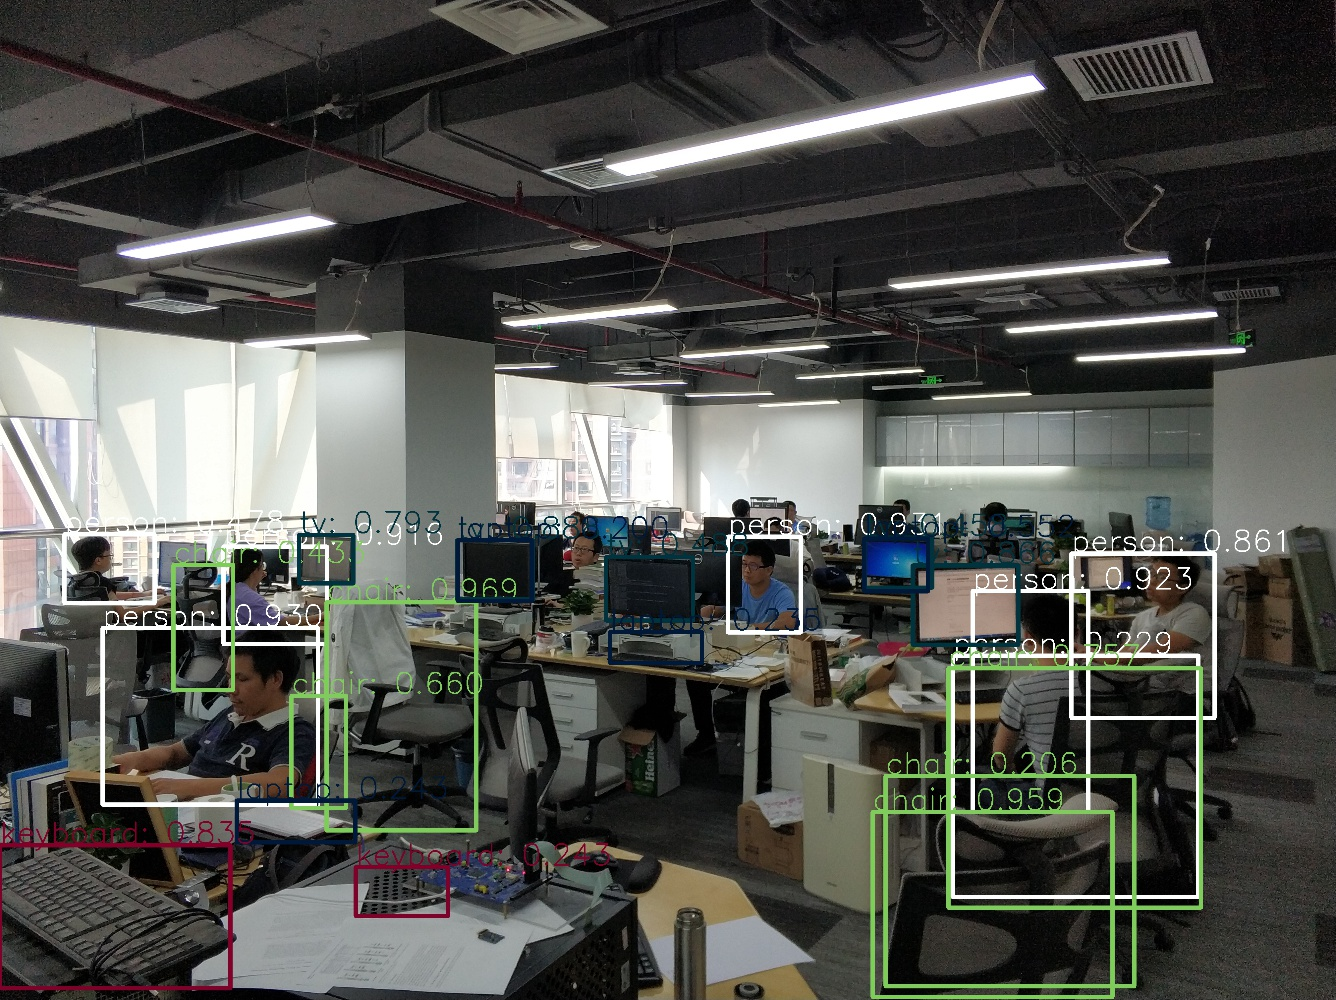
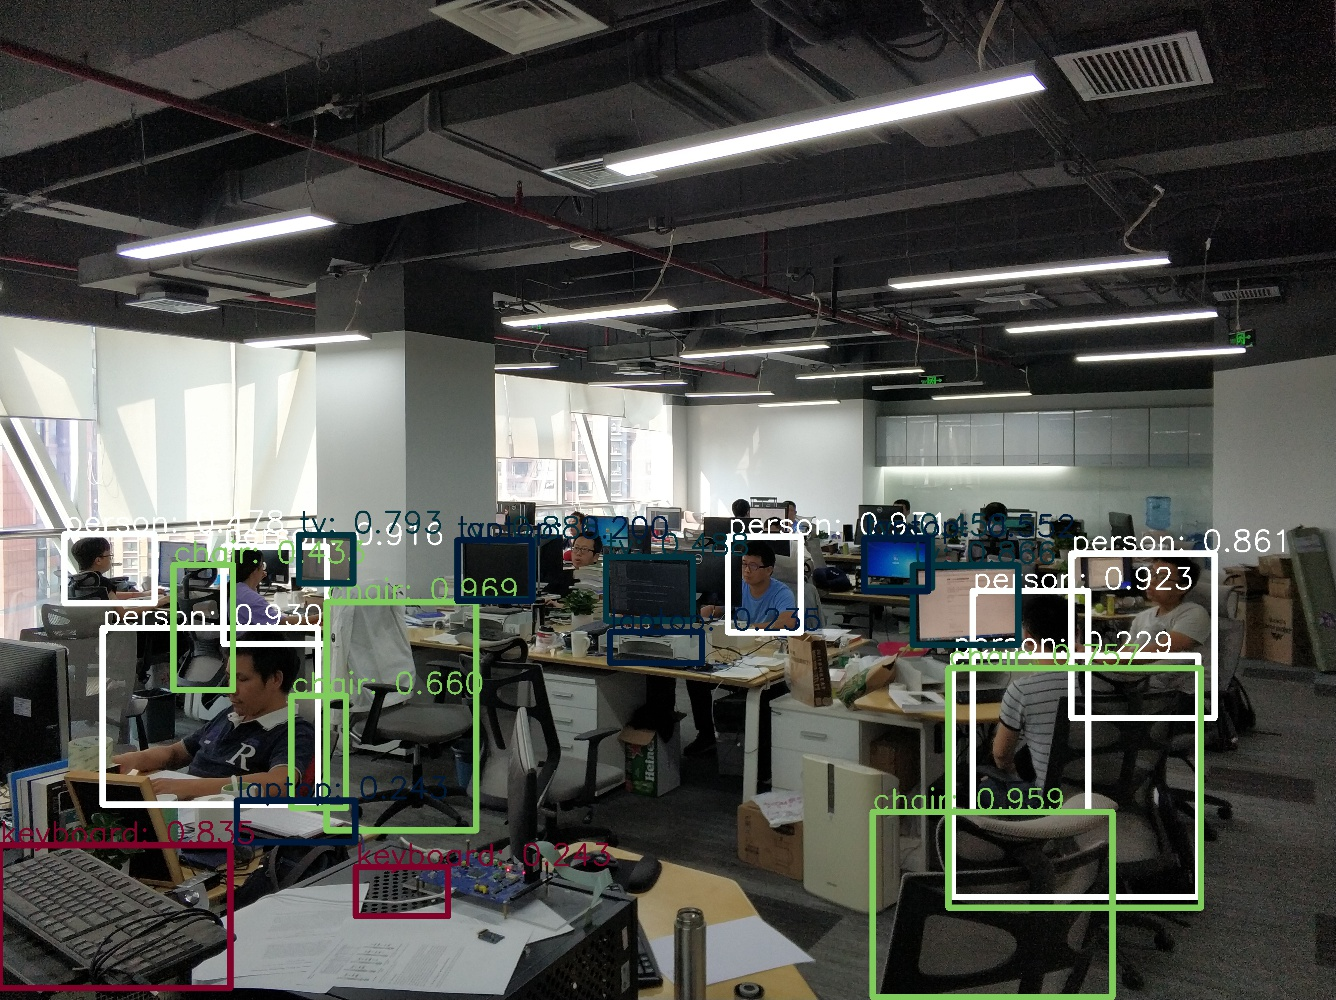
modify to compare with yolov3

diff --git a/utils/box_utils.py b/utils/box_utils.py
@@ -317,7 +317,7 @@ def draw_detection(im, bboxes, scores, cls_inds, colors, labels, thr=0.2):
             continue
         cls_indx = int(cls_inds[i])
         box = [int(_) for _ in box]
-        thick = int((h + w) / 600)
+        thick = int((h + w) / 400)
         cv2.rectangle(imgcv,
                       (box[0], box[1]), (box[2], box[3]),
                       colors[cls_indx], thick)
